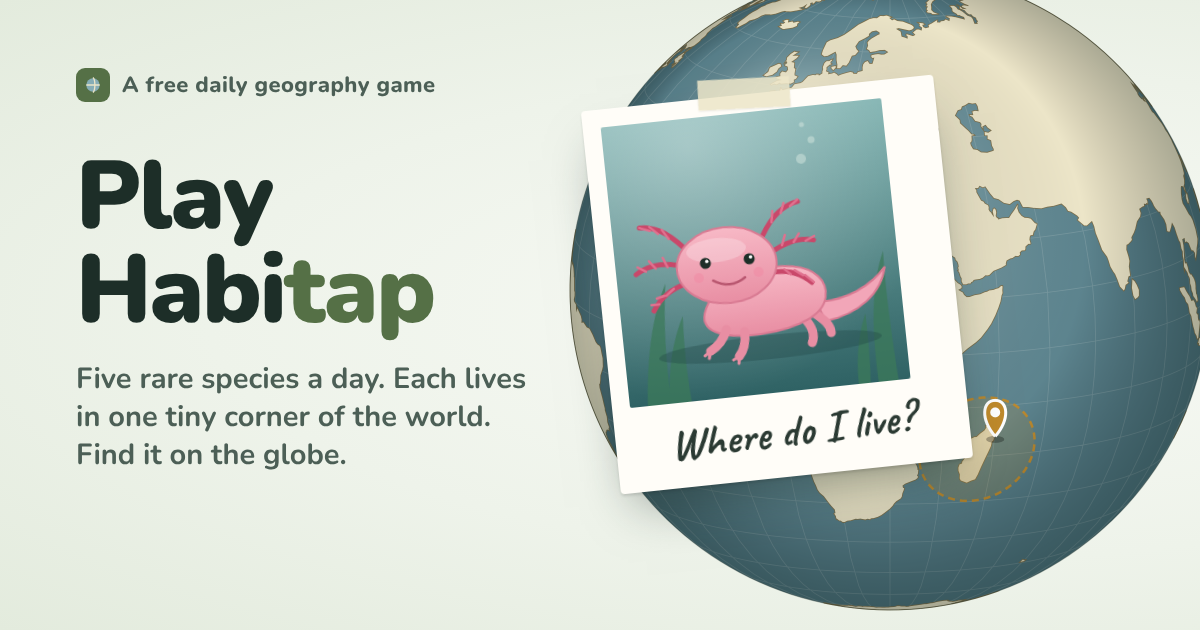
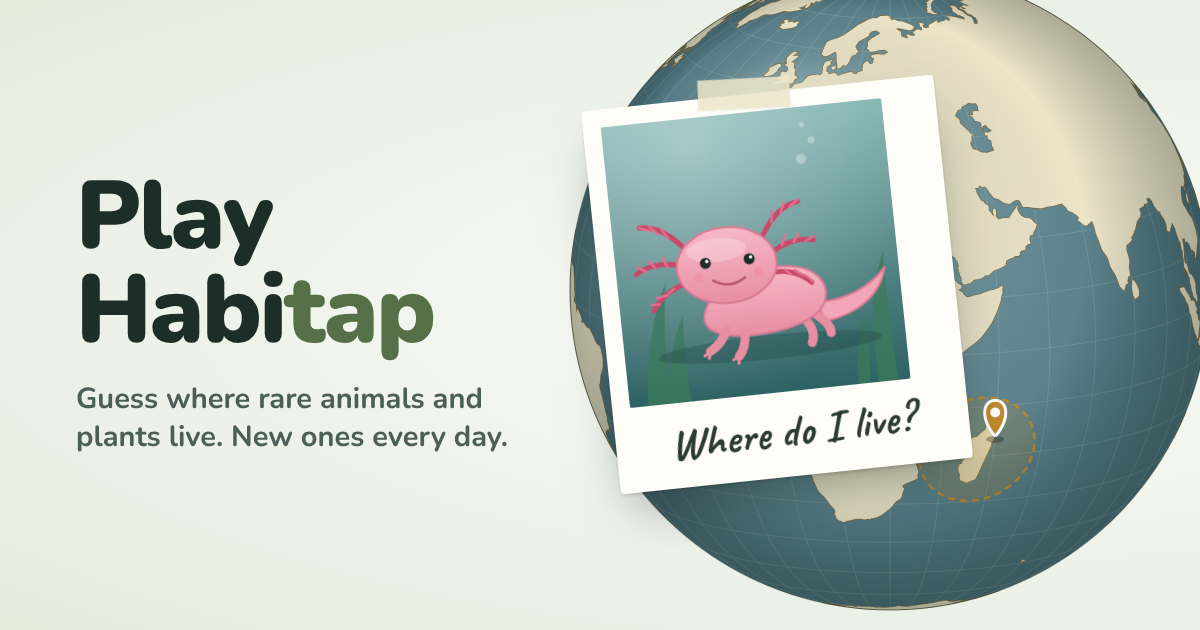
Simpler pitch on the share image and link preview text
Claude-Session: https://claude.ai/code/session_01Bu3JFrnbHQdM8D6bx8jfdw

Changed region(s): [[0.0617, 0.2413, 0.4317, 0.754], [0.0617, 0.0905, 0.37, 0.181]]

diff --git a/index.html b/index.html
@@ -15,16 +15,16 @@
 <meta name="apple-mobile-web-app-title" content="Habitap">
 <meta property="og:type" content="website">
 <meta property="og:site_name" content="Habitap">
-<meta property="og:title" content="Habitap: find where the world's rarest species live">
-<meta property="og:description" content="A free daily geography game. Five plants and animals that live in only one tiny corner of the world. Tap where you think each one lives.">
+<meta property="og:title" content="Play Habitap">
+<meta property="og:description" content="Guess where rare animals and plants live. New ones every day.">
 <meta property="og:url" content="https://garrettarch.github.io/habitap/">
 <meta property="og:image" content="https://garrettarch.github.io/habitap/og.png">
 <meta property="og:image:width" content="1200">
 <meta property="og:image:height" content="630">
 <meta property="og:image:alt" content="Play Habitap: a Polaroid of an axolotl asking “Where do I live?” in front of the game globe">
 <meta name="twitter:card" content="summary_large_image">
-<meta name="twitter:title" content="Habitap: find where the world's rarest species live">
-<meta name="twitter:description" content="A free daily geography game. Five rare species a day. Tap where they live.">
+<meta name="twitter:title" content="Play Habitap">
+<meta name="twitter:description" content="Guess where rare animals and plants live. New ones every day.">
 <meta name="twitter:image" content="https://garrettarch.github.io/habitap/og.png">
 <!-- Daily puzzle API (api-worker/). Leave empty to play from species.json; set to the Worker URL once deployed. -->
 <meta name="habitap-api" content="">

diff --git a/og-source.html b/og-source.html
@@ -8,7 +8,7 @@
 html,body{margin:0}
 body{width:1200px;height:630px;overflow:hidden;position:relative;background:radial-gradient(ellipse at 78% 50%,#f8faf5 0,var(--ground) 55%,#e3ebdd 100%);font-family:Nunito,sans-serif;color:var(--ink)}
 #globe{position:absolute;left:560px;top:-40px}
-.copy{position:absolute;left:76px;top:150px;width:470px}
+.copy{position:absolute;left:76px;top:170px;width:470px}
 .copy h1{margin:0;font-weight:900;font-size:96px;line-height:.98;letter-spacing:-.02em}
 .copy h1 b{color:var(--moss);font-weight:900}
 .copy p{margin:22px 0 0;font-weight:700;font-size:29px;line-height:1.3;color:var(--soft)}
@@ -22,10 +22,9 @@ body{width:1200px;height:630px;overflow:hidden;position:relative;background:radi
 .tape{position:absolute;left:118px;top:-16px;width:92px;height:30px;background:rgba(236,229,200,.85);transform:rotate(3deg);box-shadow:0 1px 2px rgba(0,0,0,.08)}
 </style></head><body>
 <canvas id="globe" width="1320" height="1320" style="width:660px;height:660px"></canvas>
-<div class="mark"><i><svg viewBox="0 0 24 24" width="20" height="20"><circle cx="12" cy="12" r="8" fill="#86adb6"/><path d="M12 3c3 3 3 15 0 18M4 12h16" stroke="#ece5c8" stroke-width="1.6" fill="none"/></svg></i>A free daily geography game</div>
 <div class="copy">
   <h1>Play<br>Habi<b>tap</b></h1>
-  <p>Five rare species a day. Each lives in one tiny corner of the world. Find it on the globe.</p>
+  <p>Guess where rare animals and plants live. New ones every day.</p>
 </div>
 <div class="polaroid"><div class="tape"></div>
 <svg class="ph" viewBox="0 0 282 282" xmlns="http://www.w3.org/2000/svg">
